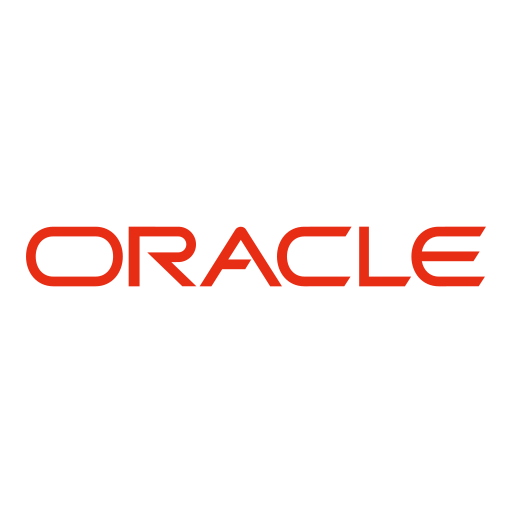
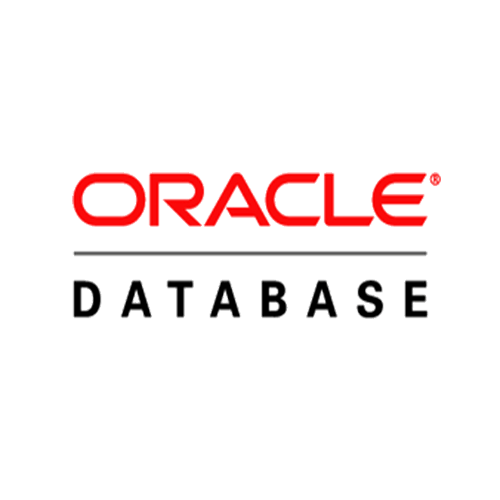
adicionado sobre

Changed region(s): [[0.03, 0.33, 0.96, 0.66]]

diff --git a/base/global/templates/sections/_section_skills.html b/base/global/templates/sections/_section_skills.html
@@ -4,56 +4,51 @@
     <div>
         <h4>Linguagens de Programação e Frameworks</h4>
         <div>
-            <span class="badge badge-primary">
-                <i class="fas fa-database"></i> SQL Server
+            <span class="badge">
+                <img  class="icons-skills" src="{{ MEDIA_URL }}media/img/sql-server.png" alt="SQL-Server" > SQL Server
+            </span> 
+            <span class="badge">
+                <img  class="icons-skills" src="{{ MEDIA_URL }}media/img/mysql.png" alt="SQL-Server" > Mysql
+            </span> 
+            <span class="badge">
+                <img  class="icons-skills" src="{{ MEDIA_URL }}media/img/oracle.png" alt="Oracle" > SQL Oracle (PL/SQL)
+            </span> 
+
+            {% comment %} <span class="badge badge-primary">QlikSense</span>{% endcomment %}
+        </div>
+        <div>
+            <span class="badge">   
+                <img  class="icons-skills" src="{{ MEDIA_URL }}media/img/html.png" alt="HTML5" >HTML5 
             </span>
-            <span class="badge badge-primary">
-                <i class="fas fa-database"></i> MySQL
-            </span> 
-            <span class="badge badge-primary">
-                <i class="fas fa-database"></i> SQL Oracle (PL/SQL)
-            </span> 
-
-              
-            {% comment %} <span class="badge badge-primary">QlikSense</span>
-            <span class="badge badge-primary">Alteryx</span>
-            <span class="badge badge-primary">Tableau</span>
-            <span class="badge badge-primary">QlikView</span> {% endcomment %}
-            <span class="badge badge-primary">
-                
-                <i class="fa-solid fa-chart-line"></i>
-                
-                PowerBI
-
-
+            <span class="badge">   
+                <img  class="icons-skills" src="{{ MEDIA_URL }}media/img/css-3.png" alt="CSS" >CSS3 
+            </span>
+            <span class="badge">   
+                <img  class="icons-skills" src="{{ MEDIA_URL }}media/img/js.png" alt="JS" >JS 
+            </span>
+            <span class="badge">   
+                <img  class="icons-skills" src="{{ MEDIA_URL }}media/img/arquivo-json.png" alt="JSON" > JSON
+            </span>
+            <span class="badge">   
+                <img  class="icons-skills" src="{{ MEDIA_URL }}media/img/github.png" alt="Github" > Github 
             </span>
         </div>
         <div>
             <span class="badge">   
-                <img  class="icons-skills" src="{{ MEDIA_URL }}media/img/html.png" alt="HTML5" > 
+                <img  class="icons-skills" src="{{ MEDIA_URL }}media/img/python.png" alt="Python" > Python
             </span>
             <span class="badge">   
-                <img  class="icons-skills" src="{{ MEDIA_URL }}media/img/css-3.png" alt="CSS" > 
+                <img  class="icons-skills" src="{{ MEDIA_URL }}media/img/r.png" alt="R" > R
             </span>
             <span class="badge">   
-                <img  class="icons-skills" src="{{ MEDIA_URL }}media/img/js.png" alt="CSS" > 
+                <img  class="icons-skills" src="{{ MEDIA_URL }}media/img/knime.png" alt="Knime" > Knime
             </span>
             <span class="badge">   
-                <img  class="icons-skills" src="{{ MEDIA_URL }}media/img/arquivo-json.png" alt="CSS" > 
+                <img  class="icons-skills" src="{{ MEDIA_URL }}media/img/powerbi.png" alt="Knime" > Powerbi
             </span>
             <span class="badge">   
-                <img  class="icons-skills" src="{{ MEDIA_URL }}media/img/github.png" alt="CSS" > 
+                <img  class="icons-skills" src="{{ MEDIA_URL }}media/img/dax.png" alt="Dax" > Dax
             </span>
-
-            <span class="badge badge-success">JSON</span>
-            <span class="badge badge-success">Programação Orientada a Objetos</span>
-        </div>
-        <div>
-            <span class="badge badge-warning">NodeJS</span>
-            <span class="badge badge-warning">React</span>
-            <span class="badge badge-warning">CSS3</span>
-            <span class="badge badge-warning">PHP</span>
-            <span class="badge badge-warning">Python</span>
         </div>
     </div>
     

diff --git a/base/global/templates/sections/_section_sobre.html b/base/global/templates/sections/_section_sobre.html
@@ -1,4 +1,37 @@
-<h1>
-    Sobre
+<section id="sobre" >
+    <h2 style="margin-bottom: 1.5em">Sobre</h2>
+
+    <div class="python-comment">
+        <div class="typing-effect">
+            <p class="paragraph-about">
+                '''Analista de Dados em Desenvolvimento | Python, SQL, Machine Learning, Visualização de Dados
+       
+                Sou um entusiasta de Data Science com foco em aprimorar minhas habilidades técnicas em Python, 
+                SQL, e ferramentas de Machine Learning. Por meio de estudos autodidatas e cursos, venho desenvolvendo 
+                competências sólidas em análise de dados, modelagem estatística e visualização de insights utilizando 
+                ferramentas como Power BI e Tableau.
     
-</h1>
+                Possuo habilidades em manipulação e limpeza de dados, construção de dashboards interativos, e aplicação 
+                de técnicas de modelagem preditiva para gerar insights acionáveis. Além disso, tenho experiência em extração, 
+                transformação e carga (ETL) de dados, utilizando pandas e NumPy para análise em Python. Minhas habilidades em 
+                machine learning incluem algoritmos como regressão linear, árvores de decisão, k-means clustering, e redes neurais.
+       
+                Minha proficiência em estatística e análise exploratória de dados (EDA) me permite entender melhor os dados antes de 
+                aplicar modelos. Além disso, domino SQL para consultas em bancos de dados relacionais e não relacionais, e utilizo Excel 
+                para análise de dados e construção de relatórios.
+         
+                Atualmente, estou à procura de oportunidades onde possa aplicar essas habilidades em um ambiente colaborativo, 
+                contribuindo para a tomada de decisões informadas através da análise de grandes volumes de dados. Busco expandir 
+                meu conhecimento em Big Data, Apache Spark, Hadoop, data warehousing, e data mining.
+    
+                Estou aberto a conectar com profissionais da área de Data Science para discutir soluções baseadas em dados e explorar 
+                possíveis colaborações que envolvam automação de processos, reporting avançado, análise preditiva, integração de dados, 
+                visualização interativa, técnicas de amostragem, business intelligence, data governance, e comunicação de resultados.'''<span class="cursor">|</span>
+                
+            </p>
+        </div>
+        
+    </div>
+    
+    
+</section>

diff --git a/base/global/css/styles.css b/base/global/css/styles.css
@@ -65,7 +65,7 @@
   }
   
 
-  #skills {
+  #skills,#formacao, #sobre, #curriculo, #contato{
     display: flex;
     justify-content: center; /* Centraliza horizontalmente */
     align-items: center;     /* Centraliza verticalmente */
@@ -79,4 +79,55 @@
   vertical-align: middle; 
   margin-right: 5px;
 
+}
+
+.icons-skills-alin {
+  display: flex;
+  justify-content: center; /* Centraliza horizontalmente */
+  align-items: center;     /* Centraliza verticalmente */
+  height: 100vh;           /* Define a altura para ocupar a tela inteira, pode ajustar conforme a necessidade */
+}
+
+.icons-skills-alin-center {
+  text-align: center; /* Centraliza o conteúdo dentro da div "b" */
+}
+
+.card-title,.card-subtitle, .card-text  {
+  text-align: center; /* Centraliza o conteúdo dentro da div "b" */
+}
+
+.python-comment {
+  font-family: Consolas, 'Courier New', monospace; /* Fonte similar ao VS Code */
+  font-size: 14px; /* Tamanho da fonte */
+  color: #6A9955; /* Cor típica de comentários no VS Code (verde claro) */
+  background-color: #1e1e1e; /* Fundo escuro do VS Code */
+  padding: 10px;
+  border-radius: 5px;
+  white-space: pre-wrap; /* Mantém os espaços e quebras de linha */
+  text-align: justify;
+}
+
+.paragraph-about {
+  margin-bottom: 1px; /* Diminui o espaço entre os parágrafos */
+  margin-top: 1px;
+}
+
+
+.typing-effect {
+  font-family: Consolas, 'Courier New', monospace; /* Fonte monoespaçada */
+  font-size: 16px;
+  display: inline-block;
+}
+
+.cursor {
+  display: inline-block;
+  width: 1px; /* Define a largura do cursor */
+  background-color: #000; /* Cor do cursor (pode ajustar para o fundo claro ou escuro) */
+  animation: blink 1s step-start infinite; /* Animação para piscar */
+}
+
+@keyframes blink {
+  50% {
+      opacity: 0;
+  }
 }

diff --git a/base/global/templates/sections/_section_formacao.html b/base/global/templates/sections/_section_formacao.html
@@ -1,4 +1,14 @@
-<h1>
-    Formação
-    
-</h1>
+<section id="formacao">
+
+    <h2 style="margin-bottom: 1.5em">Formação</h2>
+
+    <div class="card w-75">
+        <div class="card-body">
+            <h5 class="card-title">UNIFACS - Universidade de Saldavor</h5>
+        <h6 class="card-subtitle mb-2 text-muted">Bacharel Sistemas da Informação</h6>
+        <p class="card-text">2017 </p>
+        </div>
+    </div>
+
+</section>
+

diff --git a/base/global/templates/sections/_section_contato.html b/base/global/templates/sections/_section_contato.html
@@ -1,4 +1,3 @@
-<h1>
-    Contato
-    
-</h1>
+<section id="contato">
+    <h2 style="margin-bottom: 1.5em">Contato</h2>
+</section>

diff --git a/base/global/templates/sections/_section_curriculo.html b/base/global/templates/sections/_section_curriculo.html
@@ -1,4 +1,4 @@
-<h1>
-    Currículo
+<section id="curriculo">
     
-</h1>
+
+</section>
